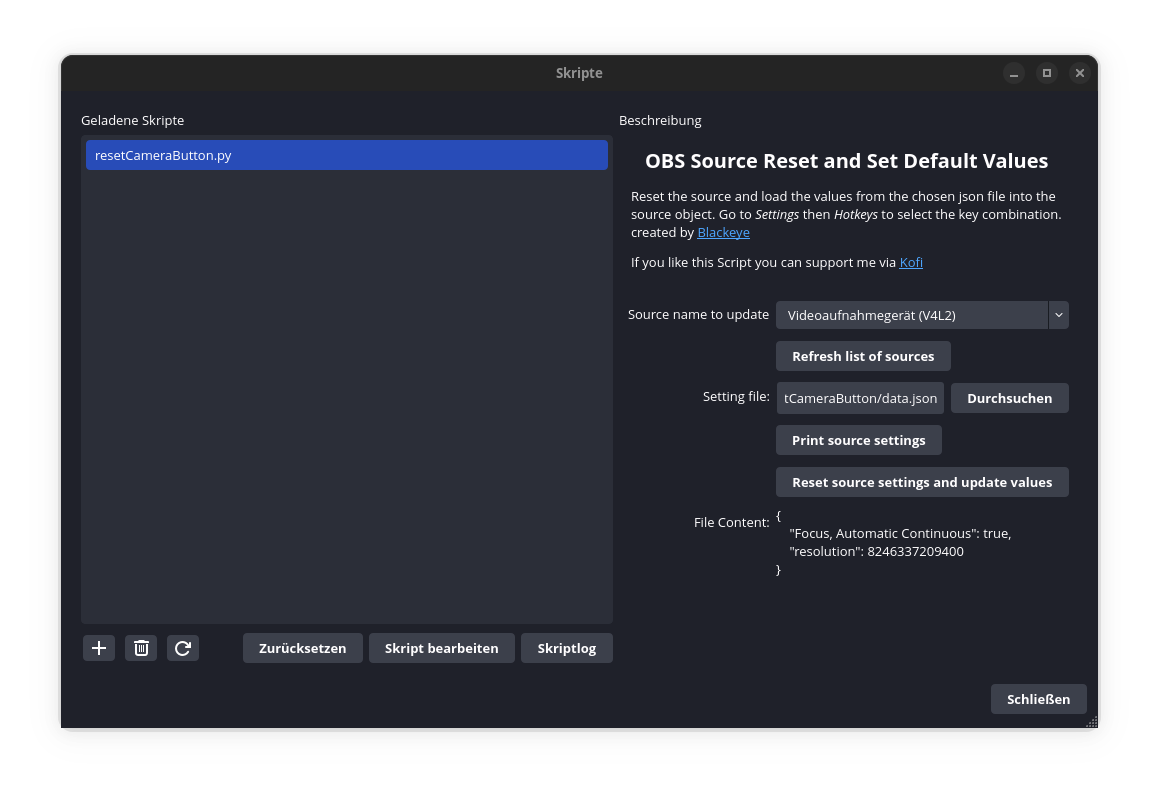
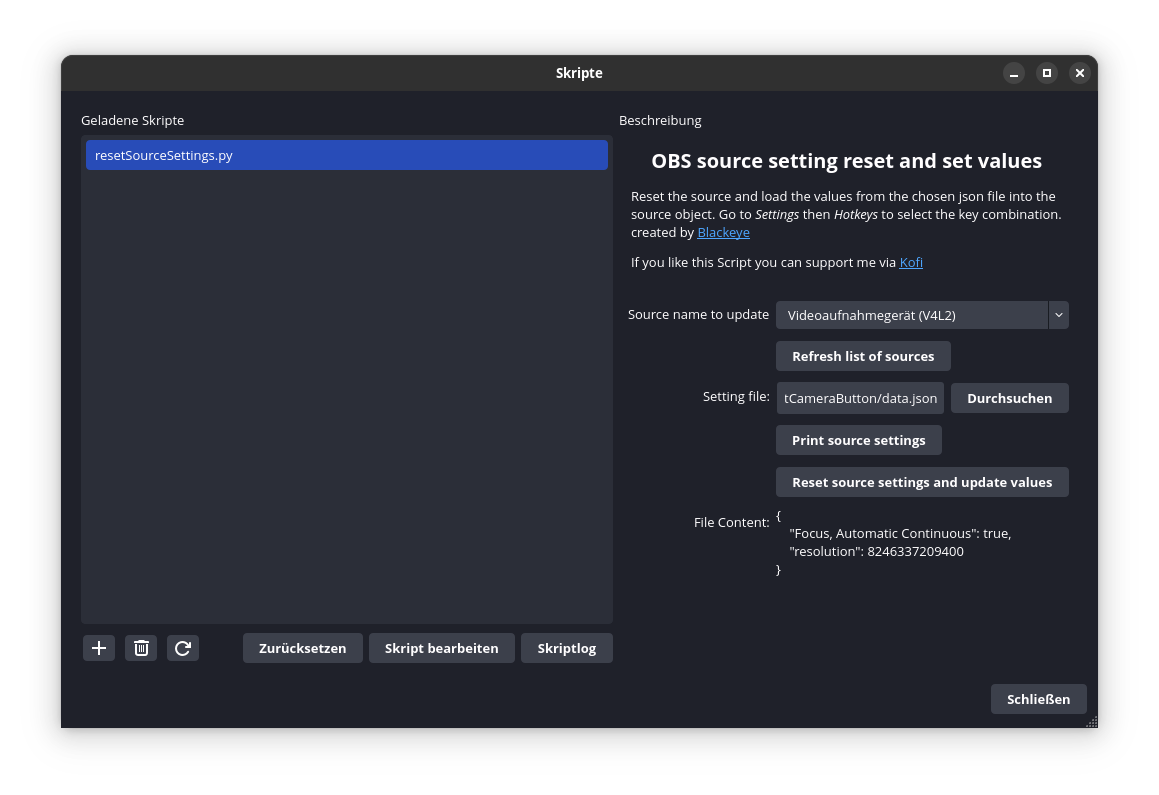
updated screenshot and description

Changed region(s): [[0.5591, 0.1811, 0.9008, 0.2113], [0.0932, 0.1811, 0.2174, 0.2113], [0.497, 0.0906, 0.528, 0.1208]]

diff --git a/resetSourceSettings.py b/resetSourceSettings.py
@@ -71,7 +71,7 @@ def script_defaults(settings):
 
 # Description displayed in the Scripts dialog window
 def script_description():
-  return """<center><h2>OBS Source Reset and Set Default Values</h2></center>
+  return """<center><h2>OBS source setting reset and set values</h2></center>
             <p> Reset the source and load the values from the chosen json file into the source object. Go to <em>Settings
             </em> then <em>Hotkeys</em> to select the key combination. created by <a href=https://github.com/Blackstareye>Blackeye</a></p>
             If you like this Script you can support me via <a href=https://ko-fi.com/black_eye>Kofi</a>
